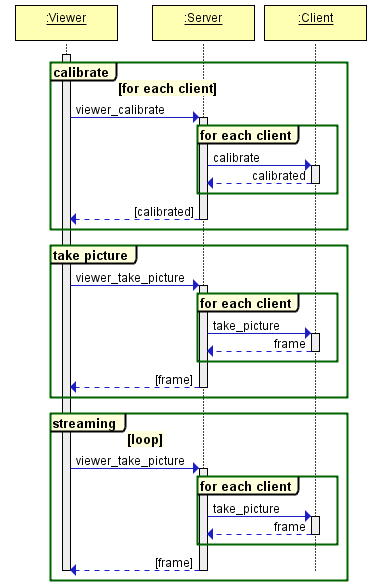
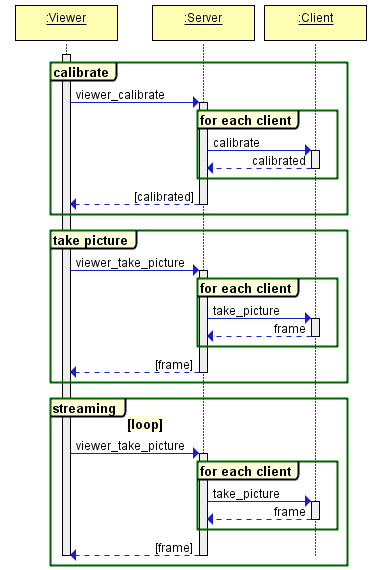
added uml diagrams and filled out sections in the report

Changed region(s): [[0.0584, 0.0, 0.9629, 0.6263], [0.1167, 0.6263, 0.9337, 0.9842], [0.1751, 0.9544, 0.2042, 0.9842]]

diff --git a/report/report.tex b/report/report.tex
@@ -22,8 +22,8 @@
 \rule{\textwidth}{1.6pt}\\[\baselineskip] % Thick horizontal line
 
 \scshape % Small caps
-Tagline 1 \\ 
-Tagline 2\par
+Real-Time Multi-Camera \\
+3D Reconstruction \par
 
 \vspace*{2\baselineskip}
 
@@ -201,20 +201,30 @@ The UML sequence diagram of the client's structure is shown below:
   \includegraphics[scale=0.6]{clientUML}
   \caption{UML sequence diagram of the client}
 \end{figure}
-\subsubsection{C++}
+\subsubsection{C++11}
+We chose to use C++ as the language for our client because it was the language that was the fastest cross platform language and it had support for Socket.IO, libfreenect2 and OpenCV 2 which had the ArUco calibration as an included module. It was also the language that all of the team were comfortable in since we had used it in our course previously. All the libraries we used which interfaced with the server were cross-platform so if someone wishes to create a client that uses a different type of camera they can choose any of the supported programming languages to do so.
 \subsubsection{ArUco}
-\subsubsection{Libfreenect}
+ArUco was the calibration system that was proposed by our supervisor Ben Glocker. It is the current leading calibration system and is provided as a module for OpenCV 2. Using standard libraries over implementing it ourselves reduces the possibility of bugs and the development cost. Standard libraries also makes our code easier to read for future developers to extend. It is also faster than AprilTags, which is the other calibration system.
+\subsubsection{OpenCV 2}
+OpenCV is the industry standard open source library for computer vision. It can be run in C++, C, Python and Java for Windows, Linux, OS X, iOS and Android. OpenCV is very optimised for efficiency due to its large developer base and is this performace is essential for us since we use it on every loop of our camera. It can also take advantage of multi-core processing and since almost all devices are multi-core now this improves the performance of our application. Since it uses OpenCL, it can take advantage of hardware acceleration to compute the matrix operations efficiently.
+\subsubsection{Libfreenect2}
+Libfreenect2 was our only option when it came to choosing a cross-platform driver to use for communicating with the kinect camera. Microsoft only supplied the Kinect SDK 2.0 for Windows. It utilises OpenGL and OpenCL libraries for depth processing. The system also supports up to 5 devices so it allows extensibility in the future if someone wishes to use a single computer to host multiple kinect cameras.
 \subsubsection{Data}
-We chose to do the calibration on the server and send the point clouds directly to the client to allow for distributed computation and speed up the transfer of data.
+We chose to do the calibration on the server and send the point clouds directly to the client to allow for distributed computation and speed up the transfer of data. 
+\newpage
 \subsection{Server}
-The UML sequence diagram of the server's structure is shown below:
+The UML sequence diagram of the server's structure is shown in the figure~\ref{fig:calibrationoffset} below:
 \begin{figure}[h]
   \centering
   \includegraphics[scale=0.6]{serverUML}
   \caption{UML sequence diagram of the server}
 \end{figure}
+
+Each message shown in the diagram above is sent via Socket.IO over the network and the connected clients are in a list held by the server. This is done because the viewer front-end and the server back-end need to communicate via the network when the status of connections change and frames are recieved and requested. 
+
 \subsubsection{Gulp} %webapp
 \subsubsection{AngularJS}
+
 
 \newpage
 \section{Implementation}
